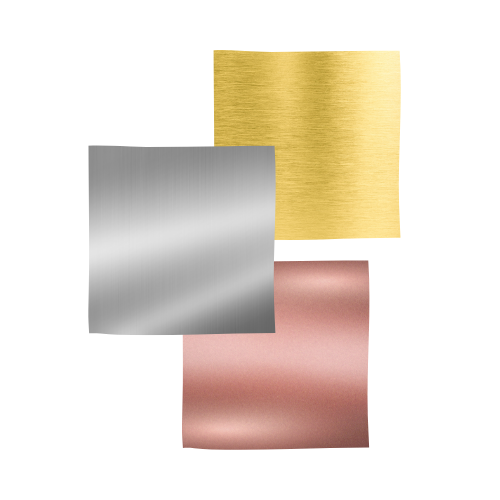
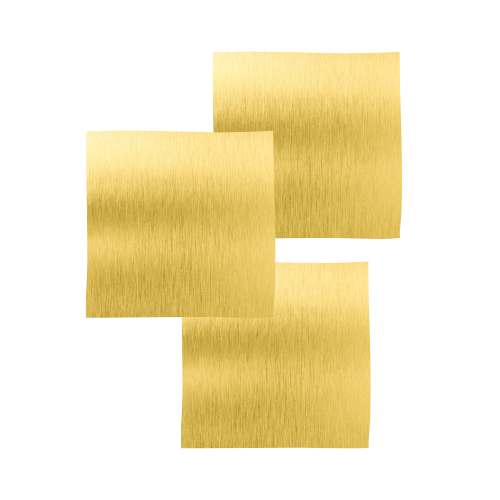
Update color palette

diff --git a/_includes/sidebar.html b/_includes/sidebar.html
@@ -2,7 +2,7 @@
   <div class="container sidebar-sticky">
     <div class="sidebar-about">
       <img src="{{ site.baseurl }}/public/stickies.png" alt="sticky notes"/>
-      <h1 class="sidebar-title foil">
+      <h1 class="sidebar-title">
         <a href="{{ site.baseurl }}/">
           {{ site.title }}
         </a>

diff --git a/public/css/hyde.css b/public/css/hyde.css
@@ -32,15 +32,11 @@
  */
 
 html {
-  --dark: #202020;
-  --light: #e2e2e2;
+  --dark: #222222;
+  --light: #E7E3D7;
 
   font-family: "IBM Plex Sans", Helvetica, Arial, sans-serif;
   color: var(--light);
-}
-
-body {
-  /* background-color: #C0C0C0; */
 }
 
 h1, h2, h3 {
